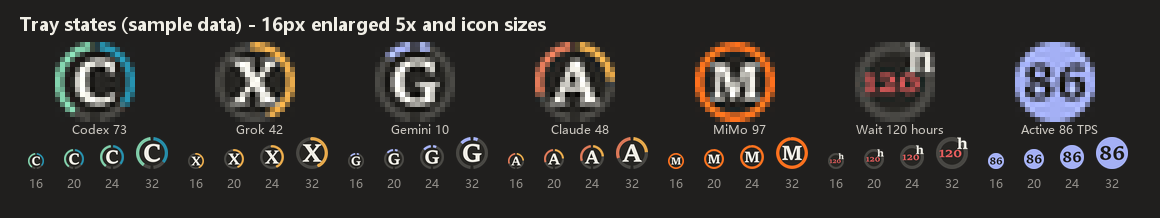
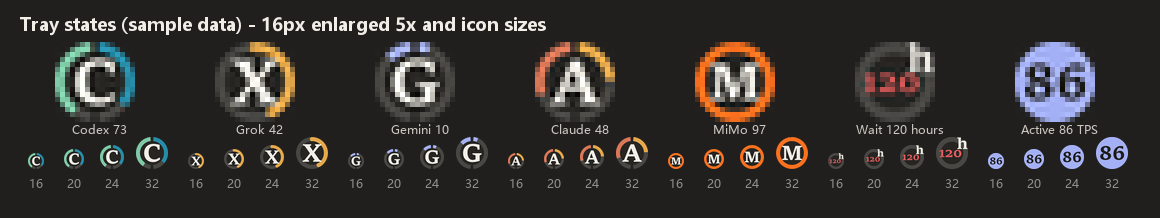
Show low quota countdown and simplify Gemini panel

diff --git a/tray_app.py b/tray_app.py
@@ -101,8 +101,12 @@ def icon_windows(snapshot: QuotaSnapshot, letter: str) -> tuple[tuple, tuple | N
 EXHAUSTED_REMAINING = 5.0  # User treats 95% used as exhausted for display.
 
 
-def quota_exhausted(value: float | None) -> bool:
-    return value is not None and value <= EXHAUSTED_REMAINING
+def exhaustion_threshold(provider: str) -> float:
+    return 10.0 if provider in ("codex", "grok") else EXHAUSTED_REMAINING
+
+
+def quota_exhausted(value: float | None, provider: str = "") -> bool:
+    return value is not None and value <= exhaustion_threshold(provider)
 
 
 def countdown_value(seconds: float) -> tuple[int, str]:
@@ -120,13 +124,13 @@ def usable_again_at(snapshot: QuotaSnapshot, now: float) -> float | None:
     pools. None while it still has quota or the time is unknown."""
     if snapshot.pools and len(snapshot.pools) > 1:
         known = [(p.get("remaining_percent"), p.get("resets_at")) for p in snapshot.pools if p.get("remaining_percent") is not None]
-        if not known or len(known) != len(snapshot.pools) or any(not quota_exhausted(value) for value, _ in known):
+        if not known or len(known) != len(snapshot.pools) or any(not quota_exhausted(value, snapshot.provider) for value, _ in known):
             return None
         stamps = [stamp for _, stamp in known if stamp and stamp > now]
         return float(min(stamps)) if stamps else None
     empty = [(value, stamp) for value, stamp in ((snapshot.remaining_percent, snapshot.resets_at),
                                                   (snapshot.secondary_remaining_percent, snapshot.secondary_resets_at))
-             if quota_exhausted(value)]
+             if quota_exhausted(value, snapshot.provider)]
     if not empty or any(not stamp or stamp <= now for _, stamp in empty):
         return None
     return float(max(stamp for _, stamp in empty))
@@ -149,6 +153,11 @@ def make_tps_icon(performance: dict, letter: str, reset_hint: bool = False) -> I
 
 
 def make_display_icon(snapshot: QuotaSnapshot, letter: str, performance: dict, reset_hint: bool = False) -> Image.Image:
+    provider = getattr(snapshot, "provider", None)
+    if provider in ("codex", "grok") and usable_again_at(snapshot, time.time()) is not None:
+        return make_provider_icon(snapshot, letter, reset_hint)
+    if provider == "gemini":
+        return make_provider_icon(snapshot, letter, reset_hint)
     if performance.get("active_sessions", 0) and performance.get("display_tps") is not None:
         return make_tps_icon(performance, letter, reset_hint)
     return make_provider_icon(snapshot, letter, reset_hint)
@@ -327,7 +336,7 @@ def tray_order(snapshots: dict[str, QuotaSnapshot], keys: list[str]) -> list[str
     """Left to right: soonest refresh first; unknown reset next; used-up last."""
     def rank(provider: str):
         remaining, reset = binding_reset(snapshots[provider])
-        exhausted = quota_exhausted(remaining)
+        exhausted = quota_exhausted(remaining, provider)
         group = 2 if exhausted else (0 if reset else 1)
         return group, reset or float("inf"), keys.index(provider)
     return sorted(keys, key=rank)
@@ -431,7 +440,7 @@ class QuotaTray:
             until = usable_again_at(snapshot, now)
             back = f"{reset_distance(until, now)}后恢复" if until else "恢复时间未知"
             if state in ("near", "near_working"):
-                return f"{names}剩余不超过 5%，按耗尽处理；{back}", "warn"
+                return f"{names}剩余不超过 {exhaustion_threshold(provider):g}%，按耗尽处理；{back}", "warn"
             if state == "paid":
                 using = "正在用购买的额度" if self.source_working(provider) else "可用购买的额度继续"
                 return f"{names}额度已用完，{using}；{back}", "warn"
@@ -512,7 +521,7 @@ class QuotaTray:
         if snapshot is None or snapshot.stale or provider == "mimo" or (snapshot.pools and len(snapshot.pools) > 1):
             return None, ()
         values = (snapshot.remaining_percent, snapshot.secondary_remaining_percent)
-        empty = tuple(slot for slot, value in enumerate(values) if quota_exhausted(value))
+        empty = tuple(slot for slot, value in enumerate(values) if quota_exhausted(value, provider))
         if not empty:
             return None, ()
         if all(values[slot] >= 0.5 for slot in empty):
@@ -535,7 +544,7 @@ class QuotaTray:
         windows = self.quota_windows("codex")
         five = next((w for w in windows if w[3] == 300 and w[1] is not None), None)
         week = next((w for w in windows if w[3] == 10080 and w[1] is not None), None)
-        return bool(five and quota_exhausted(five[1]) and week)
+        return bool(five and quota_exhausted(five[1], "codex") and week)
 
     def active_sources(self, now: float) -> dict[str, set[str]]:
         """Sources working now or with real output in the last half hour, and
@@ -652,8 +661,8 @@ class QuotaTray:
                 lines.append(view.error)
         if self.forecast_line(provider):
             lines.append(self.forecast_line(provider))
-        lines += ["", self.performance_line(provider),
-            self.output_rate_line(provider), f"活动会话：{data['active_sessions']}", "",
+        lines += (["", self.performance_line(provider), self.output_rate_line(provider)] if provider != "gemini" else [])
+        lines += [f"活动会话：{data['active_sessions']}", "",
             self.menu_reset(provider), self.menu_countdown(provider), self.menu_updated(provider)]
         if snapshot.error:
             lines.extend(("", "读取状态：" + snapshot.error))
@@ -767,7 +776,7 @@ class QuotaTray:
             today_used = (snapshot.today_used if snapshot and snapshot.today_date == today
                           else mimo_tracker().view(now).today_used)
         return agent_panel.PanelModel(provider, PROVIDERS.get(provider, provider_letter(provider)), data.get("label", provider),
-                                      status, tuple(quota), data.get("display_tps") or 0.0, tuple(bubbles[:agent_panel.MAX_BUBBLES]),
+                                      status, tuple(quota), None if provider == "gemini" else data.get("display_tps") or 0.0, tuple(bubbles[:agent_panel.MAX_BUBBLES]),
                                       tone, banner, forecast, forecast_tone, today_used,
                                       self.burn_chart(provider, now), alert, intel, intel_note,
                                       quota_tones=tuple(tones))
@@ -794,6 +803,8 @@ class QuotaTray:
         value = performance.get("generation_tps")
         generation = "暂无完整计数" if value is None else f"{value:.1f}"
         hint = f"可能即将全局重置（24h {self.reset_outlook.prob_24}%）\n" if provider == "codex" and self.reset_level() == "high" else ""
+        if provider == "gemini":
+            return f"{quota_line(snapshot)}\n{self.menu_reset(provider)}"[:127]
         return f"{hint}{quota_line(snapshot)}\n最近TPS {generation} · 60秒 {performance['output_tps_60']:.1f} tok/s\n{self.menu_reset(provider)}"[:127]
 
     def build_menu(self, provider: str) -> pystray.Menu:
@@ -850,7 +861,8 @@ class QuotaTray:
         lines = [quota_line(snapshot)] + (pool_lines(snapshot) if snapshot.pools and len(snapshot.pools) > 1 else [])
         for label, item in self.forecasts(provider):
             lines.append(f"预测{f'（{label}）' if label else ''}：{item.text}")
-        lines += ["", self.performance_line(provider), self.output_rate_line(provider), "", self.menu_reset(provider), self.menu_countdown(provider)]
+        lines += (["", self.performance_line(provider), self.output_rate_line(provider)] if provider != "gemini" else [])
+        lines += ["", self.menu_reset(provider), self.menu_countdown(provider)]
         if snapshot.secondary_resets_at:
             lines.append(f"{window_label(snapshot.secondary_window_minutes)}重置：{reset_text(snapshot.secondary_resets_at)}")
         lines += ["", self.menu_updated(provider)]
@@ -880,6 +892,8 @@ class QuotaTray:
     def open_all_performance(self, _icon=None, _item=None) -> None:
         sections = [f"本机合计 · 最近60秒：{self.performance['total_output_tps_60']:.1f} tok/s", ""]
         for provider, data in self.performance["providers"].items():
+            if provider == "gemini":
+                continue
             sections.extend((data["label"], self.performance_line(provider), self.output_rate_line(provider), ""))
         sections.append("检测到的软件：")
         sections.extend(f"{item['name']}：{item['status']}" for item in self.performance.get("software", []))

diff --git a/agent_panel.py b/agent_panel.py
@@ -132,7 +132,7 @@ class PanelModel:
         return (self.letter, self.title, self.status, self.status_tone,
                 tuple((item[0], item[2] if len(item) > 2 else "", self.tone_of(slot)) for slot, item in enumerate(self.quota[:3])),
                 (self.banner, self.banner_alert, self.intel, self.intel_note),
-                (self.forecast, self.forecast_tone), self.provider == "mimo", chart_extra_for(self))
+                (self.forecast, self.forecast_tone), self.provider == "mimo", chart_extra_for(self), self.provider != "gemini")
 
 
 METER_TOP = PAD + 32        # Top of the quota / TPS row.
@@ -145,13 +145,14 @@ GEAR_RADIUS = 7.5
 GEAR_HIT = 17.0
 
 
-def meter_columns(count: int) -> list[tuple[float, float]]:
+def meter_columns(count: int, show_tps: bool = True) -> list[tuple[float, float]]:
     """(left, bar end) of each header column; the last column is TPS."""
     # At least three slots, so a single quota (Grok) does not stretch across half
     # the panel; TPS always takes the rightmost slot, as on every other source.
-    slots = max(3, count + 1)
+    slots = max(3, count + 1) if show_tps else max(1, count)
     column = (WIDTH - 2 * PAD) / slots
-    return [(PAD + index * column, PAD + (index + 1) * column - 16) for index in [*range(count), slots - 1]]
+    indices = [*range(count), slots - 1] if show_tps else range(count)
+    return [(PAD + index * column, PAD + (index + 1) * column - 16) for index in indices]
 
 
 def chart_top(model, field_h: float) -> float:
@@ -696,7 +697,7 @@ class Scene:
         ping on the title dot while agents work, drifting shells when idle."""
         draw = ImageDraw.Draw(frame)
         meter_top = METER_TOP + header_offset(model)
-        columns = meter_columns(len(self.meters) + (model.provider == "mimo"))
+        columns = meter_columns(len(self.meters) + (model.provider == "mimo"), model.provider != "gemini")
         for slot, ((x, end), spring, item) in enumerate(zip(columns, self.meters, model.quota[:3])):
             value = item[1]
             paid = model.tone_of(slot) == "paid"     # used up but covered by purchased credits: a full gold bar
@@ -716,11 +717,12 @@ class Scene:
             number, unit = compact_usage(None if model.today_used is None else self.today_usage.value)
             blit_at(frame, figure(number, unit, accent(model.letter), SECONDARY_TEXT, scale),
                     at(columns[-2][0]), at(meter_top + 38))
-        x = columns[-1][0]
-        color = accent(model.letter)
-        rate = max(0.0, self.rate.value)
-        blit_at(frame, figure(f"{rate:.0f}", "tok/s", color if model.tps and rate >= 0.5 else TEXT, SECONDARY_TEXT, scale),
-                at(x), at(meter_top + 38))
+        if model.provider != "gemini":
+            x = columns[-1][0]
+            color = accent(model.letter)
+            rate = max(0.0, self.rate.value)
+            blit_at(frame, figure(f"{rate:.0f}", "tok/s", color if model.tps and rate >= 0.5 else TEXT, SECONDARY_TEXT, scale),
+                    at(x), at(meter_top + 38))
         if model.status_tone == "live":
             p = (self.time % 1.8) / 1.8
             blit(frame, faded(ring(round((4 + 7 * ease_out_cubic(p)) * scale), max(1, round(1.2 * scale)), model.letter),
@@ -1329,8 +1331,8 @@ def background(header: tuple, field_px: int, scale: float) -> Image.Image:
 
 
 def _header_model(header: tuple) -> PanelModel:
-    letter, title, status, tone, meters, (banner, alert, intel, note), forecast, daily, chart_padding = header
-    return PanelModel("mimo" if daily else "", letter, title, status, tuple((label, None, reset) for label, reset, _ in meters), None, (),
+    letter, title, status, tone, meters, (banner, alert, intel, note), forecast, daily, chart_padding, show_tps = header
+    return PanelModel("mimo" if daily else "" if show_tps else "gemini", letter, title, status, tuple((label, None, reset) for label, reset, _ in meters), None, (),
                       tone, banner, forecast[0], forecast[1], banner_alert=alert,
                       intel=intel, intel_note=note, chart_padding=chart_padding,
                       quota_tones=tuple(column_tone for _, _, column_tone in meters))
@@ -1420,7 +1422,7 @@ def _banner(draw, px, s, banner: str, alert: str, intel: tuple, note: str, lette
 @lru_cache(maxsize=12)
 def _background(header: tuple, field_h: int, scale: float) -> Image.Image:
     model = _header_model(header)
-    letter, title, status, tone, meters, (banner, alert, intel, note), _, daily, _padding = header
+    letter, title, status, tone, meters, (banner, alert, intel, note), _, daily, _padding, show_tps = header
     top = field_top(model)
     height = panel_height(model, field_h)
     s = scale
@@ -1440,8 +1442,8 @@ def _background(header: tuple, field_h: int, scale: float) -> Image.Image:
 
     y = METER_TOP + header_offset(model)
     label_font, small = ui_font(px(11)), ui_font(px(10))
-    columns = meter_columns(len(meters) + daily)
-    labels = tuple(meters) + ((("今日用量", "Credits", ""),) if daily else ()) + (("TPS", "", ""),)
+    columns = meter_columns(len(meters) + daily, show_tps)
+    labels = tuple(meters) + ((("今日用量", "Credits", ""),) if daily else ()) + ((("TPS", "", ""),) if show_tps else ())
     for (x, end), (label, reset, column_tone) in zip(columns, labels):
         draw.text((px(x), px(y)), label, font=label_font, fill=MUTED_TEXT, anchor="lt")
         if daily and label == "今日用量":

diff --git a/settings_view.py b/settings_view.py
@@ -164,13 +164,14 @@ def source_card(card: SourceCard, icon: Image.Image | None, scale: float = 1.0, 
     # Rates.
     y = 166
     draw.line((px(16), px(y - 6), px(CARD_W - 16), px(y - 6)), fill=RULE, width=max(1, round(s)))
-    tps = card.tps or 0.0
-    big = figure_font(px(20))
-    number = f"{tps:.0f}"
-    draw.text((px(16), px(y + 15)), number, font=big, fill=color if card.tps else TEXT, anchor="ls")
-    after = 16 + draw.textlength(number, font=big) / s + 4
-    draw.text((px(after), px(y + 15)), "tok/s", font=tiny, fill=SECONDARY_TEXT, anchor="ls")
-    meta = f"60 秒 {card.rate60:.1f} tok/s · {card.active} 个会话"
+    if card.provider != "gemini":
+        tps = card.tps or 0.0
+        big = figure_font(px(20))
+        number = f"{tps:.0f}"
+        draw.text((px(16), px(y + 15)), number, font=big, fill=color if card.tps else TEXT, anchor="ls")
+        after = 16 + draw.textlength(number, font=big) / s + 4
+        draw.text((px(after), px(y + 15)), "tok/s", font=tiny, fill=SECONDARY_TEXT, anchor="ls")
+    meta = f"{card.active} 个会话" if card.provider == "gemini" else f"60 秒 {card.rate60:.1f} tok/s · {card.active} 个会话"
     draw.text((px(CARD_W - 16), px(y + 15)), meta, font=tiny, fill=MUTED_TEXT, anchor="rs")
     forecast = card.forecast or card.note or "正在积累用量，稍后给出预测"
     tint = TONE_COLORS.get(card.forecast_tone, MUTED_TEXT) if card.forecast else MUTED_TEXT
@@ -264,7 +265,8 @@ def agent_rows(agents: list[dict], letters: dict[str, str], scale: float = 1.0, 
         draw.text((px(38), px(cy + 9)), _fit(draw, where, tiny, px(width * .5)), font=tiny, fill=MUTED_TEXT, anchor="lm")
         doing = str(agent.get("doing") or ("工作中" if agent.get("live") else "刚完成"))
         tps = agent.get("tps")
-        draw.text((px(width - 16), px(cy - 7)), f"{tps:.0f} tok/s" if tps else "—", font=ui_font(px(11)), fill=color if tps else MUTED_TEXT, anchor="rm")
+        if agent.get("provider") != "gemini":
+            draw.text((px(width - 16), px(cy - 7)), f"{tps:.0f} tok/s" if tps else "—", font=ui_font(px(11)), fill=color if tps else MUTED_TEXT, anchor="rm")
         draw.text((px(width - 16), px(cy + 9)), _fit(draw, doing, tiny, px(width * .35)), font=tiny,
                   fill=SECONDARY_TEXT if agent.get("live") else MUTED_TEXT, anchor="rm")
     return image

diff --git a/test_split_ring.py b/test_split_ring.py
@@ -66,6 +66,23 @@ class SplitRingTests(unittest.TestCase):
             self.assertEqual(value.remaining_percent, remaining)
         self.assertIsNone(tray_app.usable_again_at(snapshot('claude', remaining=5.01, reset=now+3601), now))
 
+    def test_codex_and_grok_use_ten_percent_for_both_windows(self):
+        now = time.time()
+        for provider in ('codex', 'grok'):
+            for primary, secondary in ((10, 60), (60, 10)):
+                with self.subTest(provider=provider, primary=primary, secondary=secondary):
+                    value = snapshot(provider, primary, secondary, now+7200, now+10800)
+                    expected = now+7200 if primary == 10 else now+10800
+                    self.assertEqual(tray_app.usable_again_at(value, now), expected)
+                    with patch.object(tray_app, 'make_provider_icon', return_value='countdown'):
+                        self.assertEqual(tray_app.make_display_icon(value, 'C', {'active_sessions':1, 'display_tps':25}), 'countdown')
+            self.assertIsNone(tray_app.usable_again_at(snapshot(provider, 10.01, 60, now+7200), now))
+
+    def test_gemini_icon_never_switches_to_tps(self):
+        value = snapshot('gemini', 40, None)
+        with patch.object(tray_app, 'make_provider_icon', return_value='quota'):
+            self.assertEqual(tray_app.make_display_icon(value, 'G', {'active_sessions':1, 'display_tps':25}), 'quota')
+
     def test_stale_countdown_and_live_tps_priority(self):
         now = time.time()
         value = snapshot('claude', remaining=1, reset=now+3601)

diff --git a/test_settings.py b/test_settings.py
@@ -19,6 +19,16 @@ def snapshot(**extra):
 
 
 class SettingsViewTests(unittest.TestCase):
+    def test_gemini_panel_uses_full_width_for_quota_without_tps(self):
+        import agent_panel
+        model = agent_panel.PanelModel('gemini', 'G', 'Gemini', '空闲',
+            (('Argon', 30), ('Claude/GPT', 40), ('Gemini', 50)), 99, ())
+        self.assertFalse(model.header[-1])
+        self.assertEqual(agent_panel._header_model(model.header).provider, 'gemini')
+        self.assertEqual(len(agent_panel.meter_columns(3, False)), 3)
+        self.assertGreater(agent_panel.meter_columns(3, False)[0][1], agent_panel.meter_columns(3, True)[0][1])
+        agent_panel.background(model.header, 120, 1.0)
+
     def test_gemini_always_uses_its_tps_colour(self):
         self.assertEqual(accent("G"), ring_color(40, "G"))
         self.assertEqual(accent("G"), ring_color(10, "G"))
@@ -52,7 +62,7 @@ class SettingsViewTests(unittest.TestCase):
                               panel=lambda provider: SimpleNamespace(status="1 个在工作", status_tone="live", forecast="够用", forecast_tone="ok"))
         [(card, image)] = settings_window.build_cards(app)
         self.assertIs(image, icon)
-        self.assertEqual(("G", "1 个在工作", 99.0, 1), (card.letter, card.status, card.tps, card.active))
+        self.assertEqual(("G", "1 个在工作", None, 1), (card.letter, card.status, card.tps, card.active))
 
     def test_preferences_round_trip_and_apply(self):
         import tray_app

diff --git a/icon_art.py b/icon_art.py
@@ -160,7 +160,7 @@ def _stale_badge(canvas: Image.Image) -> None:
 # Shared geometry: both states are full-bleed discs so the icon uses the
 # whole tray slot.  The ring hugs the edge; the glyph gets the rest.
 DISC = (0, 0, CANVAS - 1, CANVAS - 1)
-RING_W = 26
+RING_W = 32
 RING_BOX = (RING_W / 2 + 1, RING_W / 2 + 1, CANVAS - RING_W / 2 - 2, CANVAS - RING_W / 2 - 2)
 
 
@@ -303,7 +303,7 @@ def waiting_icon(amount: int, letter: str, reset_hint: bool = False, stale: bool
     # Keep the empty outline as large as the original full-bleed disc.  A
     # slightly thicker stroke remains visible at 16-pixel tray size.  Use the
     # original empty-ring track rather than a full provider-coloured arc.
-    draw.ellipse(DISC, outline=TRACK, width=34)
+    draw.ellipse(DISC, outline=TRACK, width=38)
     text = str(max(1, int(amount)))
     wide = len(text) >= 3
     face = _fit(text, number_font, 190 if wide else 180, 132 if wide else 158, 200, draw)

diff --git a/settings_window.py b/settings_window.py
@@ -67,7 +67,7 @@ def build_cards(app, now: float | None = None) -> list[tuple[view.SourceCard, ob
             status, tone, forecast, forecast_tone = ("读取异常" if snapshot is not None and snapshot.error else "空闲"), "idle", "", "unknown"
         note = (snapshot.error or "") if snapshot is not None else ""
         card = view.SourceCard(provider, letter, PROVIDER_NAMES.get(provider, provider), status, tone, view.quota_rows(snapshot, now),
-                               data.get("display_tps"), float(data.get("output_tps_60") or 0.0), int(data.get("active_sessions") or 0),
+                               None if provider == "gemini" else data.get("display_tps"), float(data.get("output_tps_60") or 0.0), int(data.get("active_sessions") or 0),
                                forecast, forecast_tone, note)
         icon = getattr((getattr(app, "icons", None) or {}).get(provider), "icon", None)
         result.append((card, icon))

diff --git a/README.md b/README.md
@@ -10,7 +10,7 @@ A Windows system-tray monitor for local AI quota and token-usage signals, with g
 
 - **独立来源图标**：默认显示 Codex、Grok、Gemini，Claude Code 为可选来源。
 - **额度圆环**：沿用深色圆盘和来源字母。有两个窗口时外圈分为左右两段，左侧为短窗口、右侧为长窗口；Gemini 显示剩余最少的两个模型池，按面板顺序排列。单窗口仍为完整圆环；生成时显示 TPS 数字。
-- **接近用尽与重置**：剩余不超过 5% 时按耗尽处理；已知重置时间时托盘显示红色倒计时，右上角 `d`、`h`、`m` 分别表示天、小时、分钟，有实际生成速率时优先显示 TPS。面板保留真实百分比并标注接近用尽，旧数据会在面板中提示。多个独立模型池仅在全部已知池均达到阈值时显示等待时间。
+- **接近用尽与重置**：Codex 和 Grok 的小时或周额度剩余不超过 10%，其他来源剩余不超过 5% 时按耗尽处理；已知重置时间时托盘显示红色倒计时，右上角 `d`、`h`、`m` 分别表示天、小时、分钟。Codex 和 Grok 达到阈值后优先显示倒计时，其他来源有生成速率时优先显示 TPS；Gemini 不在界面显示 TPS。面板保留真实百分比并标注接近用尽，旧数据会在面板中提示。多个独立模型池仅在全部已知池均达到阈值时显示等待时间。
 - **生成速率显示**：取得可核验样本且来源处于活动状态时，圆盘点亮并显示最近样本；缺少样本时继续显示额度。
 - **Agent 任务气泡**：悬停任一额度图标都会打开任务面板（没有任务时也显示）：顶部保留各额度窗口与 TPS，每列标题直接写距下次重置的时间（如 4小时32分钟、3天7小时、323天；尚未开始计时的窗口仍写窗口名），下方每个气泡是一项任务及其当前动作；把气泡拖到一起即告诉程序它们是同一任务的并行部分，合并为大气泡并重新识别。
 - **按需刷新**：根据空闲、活动、生成结束、读取失败和重置时间调度额度查询。
